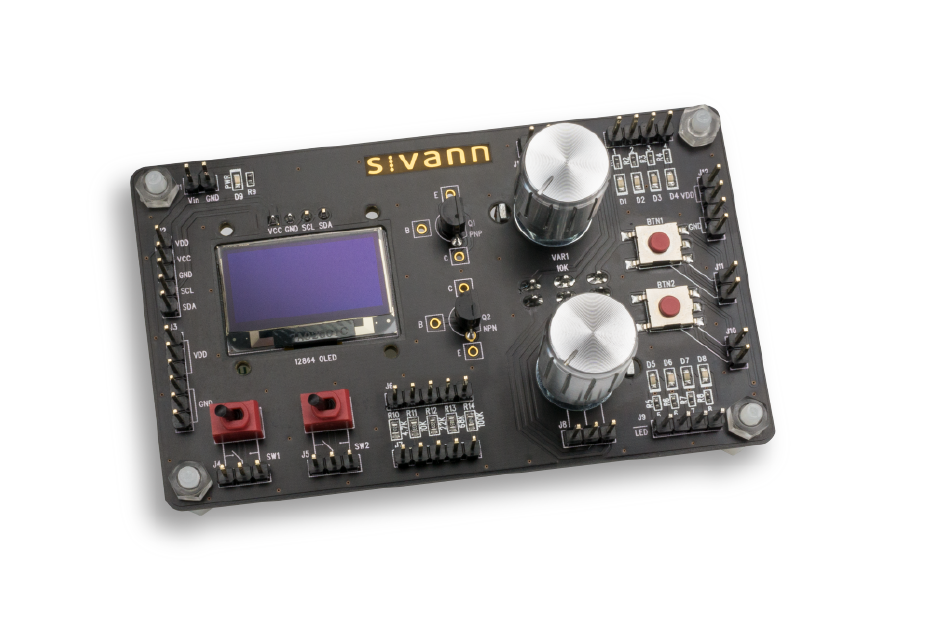
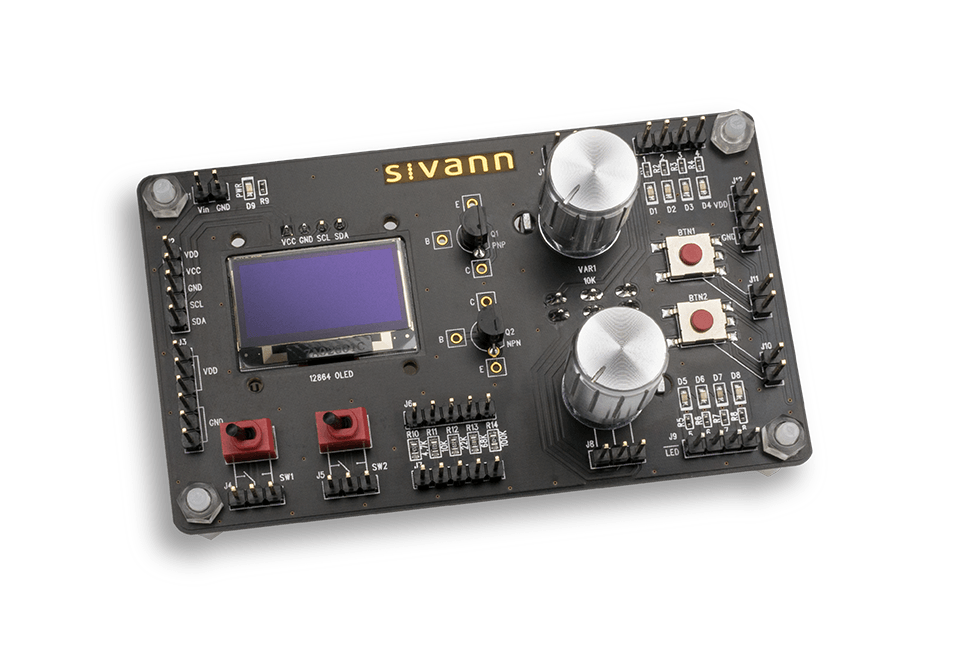
update 03_TestMate.png

diff --git a/product.html b/product.html
@@ -33,7 +33,7 @@
                     <div class="content introduction col-md-12">
                         <div class="card card-horizontal" style="display: flex; flex-wrap: wrap">
                             <div class="col-lg-6" style="display: flex;">
-                                <div style="background-color: #ECECEC; display: flex; align-items: center;">
+                                <div style="background-color: #ECECEC; display: flex; align-items: center; justify-content: center;">
                                     <img class="img-fluid" src="images/03_TestMate.png" alt="">
                                 </div>
                             </div>
